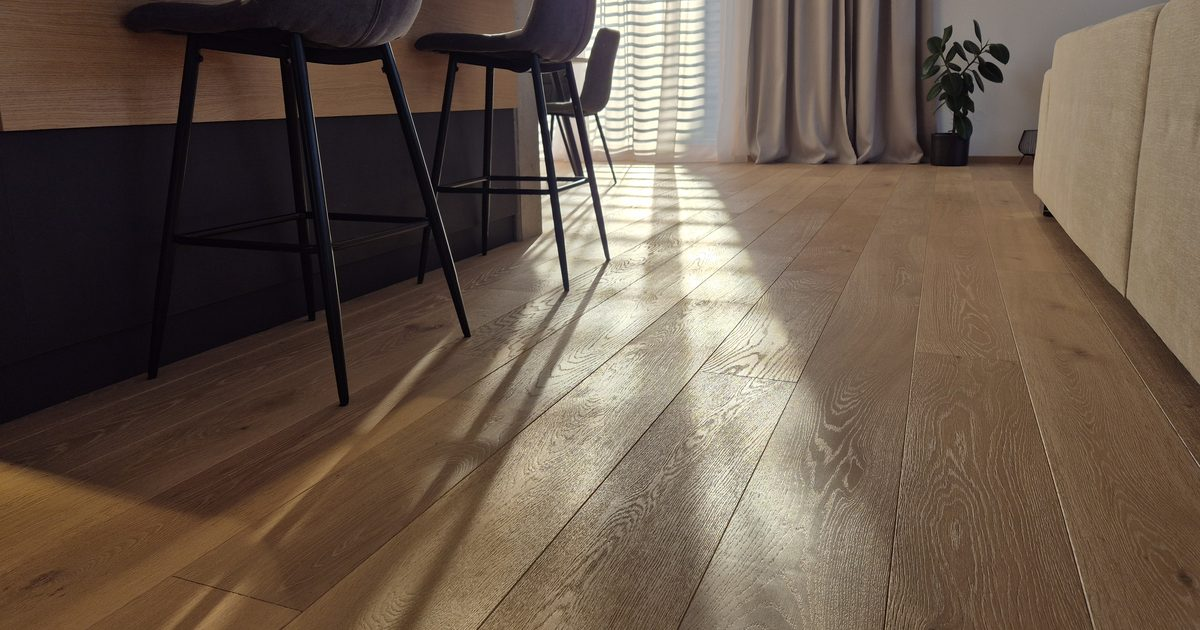
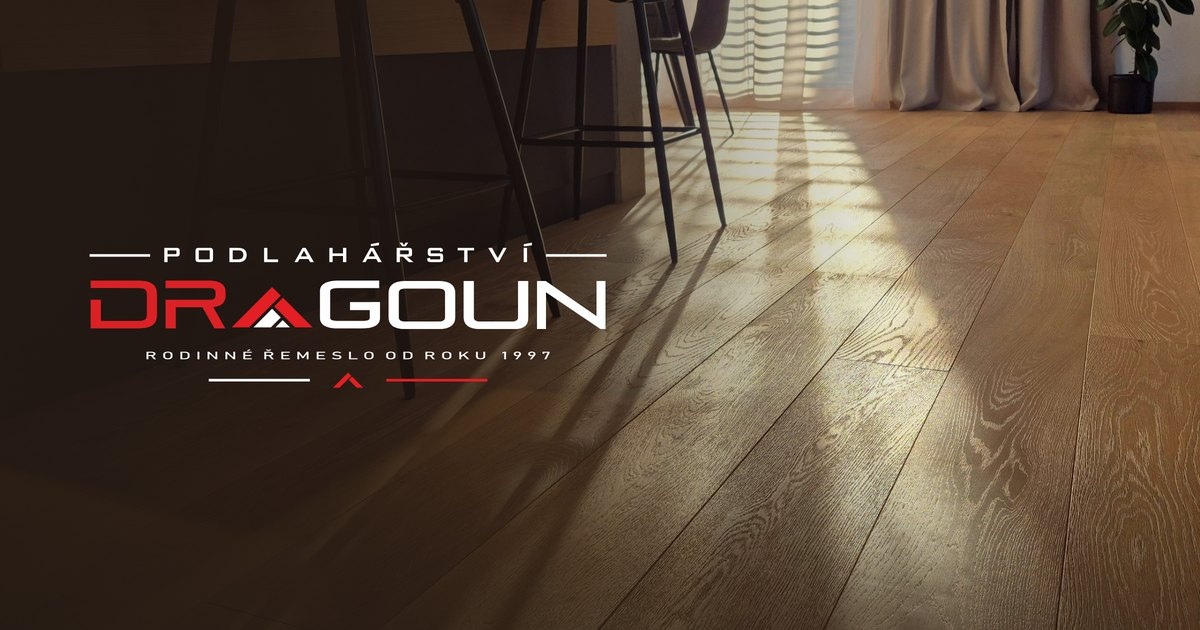
Verze 0-11

diff --git a/index.html b/index.html
@@ -24,7 +24,7 @@
   <meta property="og:image" content="https://podlaharstvi-dragoun.cz/og-image.jpg">
   <meta property="og:image:width" content="1200">
   <meta property="og:image:height" content="630">
-  <meta property="og:image:alt" content="Dokončená podlaha v rodinném domě – Podlahářství Dragoun">
+  <meta property="og:image:alt" content="Logo Podlahářství Dragoun – rodinné řemeslo od roku 1997 – na fotografii dubové podlahy">
   <meta name="twitter:card" content="summary_large_image">
 
   <!-- Favicon -->
@@ -38,8 +38,8 @@
     imagesrcset="Obrazky/web/RD%20Velky%20Tynec/20250205_083930-hero-828.avif 828w, Obrazky/web/RD%20Velky%20Tynec/20250205_083930-hero-1280.avif 1280w, Obrazky/web/RD%20Velky%20Tynec/20250205_083930-hero-1920.avif 1920w, Obrazky/web/RD%20Velky%20Tynec/20250205_083930-hero-2560.avif 2560w"
     imagesizes="100vw" fetchpriority="high">
 
-  <link rel="stylesheet" href="style.css?v=0-10">
-  <script src="script.js?v=0-10" defer></script>
+  <link rel="stylesheet" href="style.css?v=0-11">
+  <script src="script.js?v=0-11" defer></script>
 
   <!-- Strukturovaná data: LocalBusiness -->
   <script type="application/ld+json">
@@ -69,6 +69,21 @@
       "geoRadius": "100000"
     },
     "founder": { "@type": "Person", "name": "Milan Dragoun" },
+    "foundingDate": "1997",
+    "hasOfferCatalog": {
+      "@type": "OfferCatalog",
+      "name": "Služby",
+      "itemListElement": [
+        { "@type": "Offer", "itemOffered": { "@type": "Service", "name": "Vinylové podlahy", "description": "Snadná údržba a široký výběr dekorů, které napodobují dřevo, kámen nebo dlažbu." } },
+        { "@type": "Offer", "itemOffered": { "@type": "Service", "name": "PVC podlahy", "description": "Pružná krytina s jednoduchou údržbou a pestrým výběrem barev i vzorů." } },
+        { "@type": "Offer", "itemOffered": { "@type": "Service", "name": "Koberce", "description": "Výběr barev, vzorů a výšky vlasu, se kterými můžete zútulnit svůj domov." } },
+        { "@type": "Offer", "itemOffered": { "@type": "Service", "name": "Dřevěné podlahy", "description": "Přírodní materiál s osobitou kresbou, která dává každé místnosti vlastní charakter." } },
+        { "@type": "Offer", "itemOffered": { "@type": "Service", "name": "Laminátové podlahy", "description": "Praktická podlaha, která spojuje vzhled dřeva se snadnou údržbou." } },
+        { "@type": "Offer", "itemOffered": { "@type": "Service", "name": "Příprava podkladu", "description": "Oprava a vyrovnání podkladu pro novou podlahu, včetně nivelace, pokud je potřeba." } },
+        { "@type": "Offer", "itemOffered": { "@type": "Service", "name": "Odstranění staré krytiny", "description": "Odstranění původní krytiny a zajištění likvidace při výměně podlahy." } },
+        { "@type": "Offer", "itemOffered": { "@type": "Service", "name": "Renovace parket", "description": "Obnova stávajících parket po individuální domluvě." } }
+      ]
+    },
     "vatID": "CZ7705235318",
     "identifier": { "@type": "PropertyValue", "propertyID": "IČO", "value": "74797603" }
   }

diff --git a/404.html b/404.html
@@ -9,8 +9,8 @@
   <!-- Absolutní cesty: stránka se zobrazuje na libovolné neexistující adrese -->
   <link rel="icon" href="/favicon.svg" type="image/svg+xml">
   <link rel="apple-touch-icon" href="/apple-touch-icon.png">
-  <link rel="stylesheet" href="/style.css?v=0-10">
-  <script src="/script.js?v=0-10" defer></script>
+  <link rel="stylesheet" href="/style.css?v=0-11">
+  <script src="/script.js?v=0-11" defer></script>
 </head>
 
 <body>
